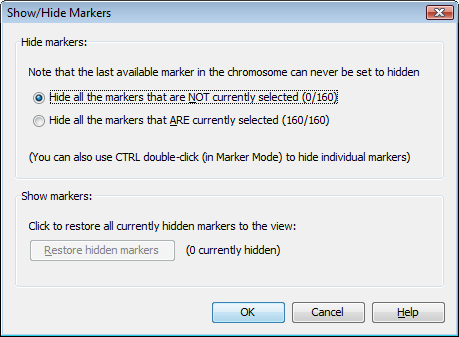
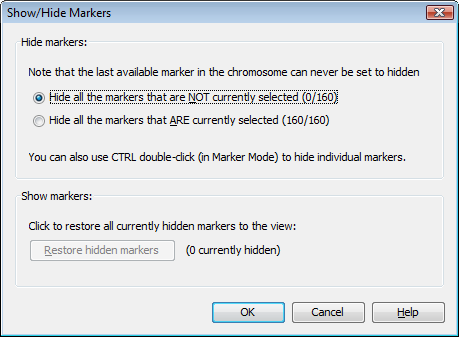
- CHG: Modified the text (and images) for dialogs that use sentences. - NEW: Added a right-click menu option to the navigation panel for deleting bookmarks. - NEW: Added help text on deleting bookmarks.

Changed region(s): [[0.061, 0.4451, 0.915, 0.5045], [0.4575, 0.8902, 0.6405, 0.9792]]

diff --git a/trunk/src/flapjack/gui/Actions.java b/trunk/src/flapjack/gui/Actions.java
@@ -51,6 +51,7 @@ public class Actions
 	public static AbstractAction vizToggleCanvas;
 	public static AbstractAction vizOverview;
 	public static AbstractAction vizBookmark;
+	public static AbstractAction vizDeleteBookmark;
 
 	public static AbstractAction dataSortLinesBySimilarity;
 	public static AbstractAction dataSortLinesByTrait;
@@ -328,6 +329,12 @@ public class Actions
 			}
 		};
 
+		vizDeleteBookmark = new AbstractAction(RB.getString("gui.Actions.vizDeleteBookmark"), getIcon(Icons.DELETE)) {
+			public void actionPerformed(ActionEvent e) {
+				winMain.mViz.vizDeleteBookmark();
+			}
+		};
+
 		vizOverview = new AbstractAction(RB.getString("gui.Actions.vizOverview")) {
 			public void actionPerformed(ActionEvent e) {
 				winMain.mViz.vizOverview();
@@ -476,6 +483,7 @@ public class Actions
 		vizToggleCanvas.setEnabled(false);
 		vizOverview.setEnabled(false);
 		vizBookmark.setEnabled(false);
+		vizDeleteBookmark.setEnabled(false);
 
 		dataSortLinesBySimilarity.setEnabled(false);
 		dataSortLinesByTrait.setEnabled(false);

diff --git a/trunk/src/flapjack/gui/navpanel/NavPanelMenu.java b/trunk/src/flapjack/gui/navpanel/NavPanelMenu.java
@@ -20,6 +20,7 @@ public class NavPanelMenu extends MouseInputAdapter
 	private JMenuItem vizNewView;
 	private JMenuItem vizRenameView;
 	private JMenuItem vizDeleteView;
+	private JMenuItem vizDeleteBookmark;
 
 	public NavPanelMenu(JTree tree)
 	{
@@ -38,6 +39,7 @@ public class NavPanelMenu extends MouseInputAdapter
 		vizNewView = WinMainMenuBar.getItem(Actions.vizNewView, "gui.Actions.vizNewView", 0, 0);
 		vizRenameView = WinMainMenuBar.getItem(Actions.vizRenameView, "gui.Actions.vizRenameView", 0, 0);
 		vizDeleteView = WinMainMenuBar.getItem(Actions.vizDeleteView, "gui.Actions.vizDeleteView", 0, 0);
+		vizDeleteBookmark = WinMainMenuBar.getItem(Actions.vizDeleteBookmark, "gui.Actions.vizDeleteBookmark", 0, 0);
 	}
 
 	void handlePopup(MouseEvent e)
@@ -66,6 +68,11 @@ public class NavPanelMenu extends MouseInputAdapter
 			menu.add(vizNewView);
 			menu.add(vizRenameView);
 			menu.add(vizDeleteView);
+		}
+
+		else if (node instanceof BookmarkNode)
+		{
+			menu.add(vizDeleteBookmark);
 		}
 
 		else

diff --git a/trunk/src/flapjack/gui/NavPanel.java b/trunk/src/flapjack/gui/NavPanel.java
@@ -255,6 +255,18 @@ class NavPanel extends JPanel
 		treeModel.removeNodeFromParent(node);
 	}
 
+	Bookmark removeSelectedBookmarkNode()
+	{
+		BookmarkNode node = (BookmarkNode) tree.getLastSelectedPathComponent();
+		BaseNode baseNode = (BaseNode) node.getParent();
+
+		treeModel.removeNodeFromParent(node);
+		tree.setSelectionPath(new TreePath(baseNode.getPath()));
+		tree.scrollPathToVisible(new TreePath(baseNode.getPath()));
+
+		return node.getBookmark();
+	}
+
 	TraitsPanel getTraitsPanel(DataSet dataSet)
 	{
 		DataSetNode dataSetNode = findDataSetNode(dataSet);

diff --git a/trunk/src/flapjack/gui/MenuVisualization.java b/trunk/src/flapjack/gui/MenuVisualization.java
@@ -180,5 +180,19 @@ public class MenuVisualization
 
 		view.getViewSet().getBookmarks().add(bookmark);
 		navPanel.addedNewBookmarkNode(view.getViewSet(), bookmark);
+
+		Actions.projectModified();
+	}
+
+	void vizDeleteBookmark()
+	{
+		GTViewSet viewSet = gPanel.getViewSet();
+
+		// Remove the bookmark from the navigation panel
+		Bookmark bookmark = navPanel.removeSelectedBookmarkNode();
+		// And then remove it from the project
+		viewSet.getBookmarks().remove(bookmark);
+
+		Actions.projectModified();
 	}
 }

diff --git a/trunk/src/flapjack/gui/navpanel/BookmarkNode.java b/trunk/src/flapjack/gui/navpanel/BookmarkNode.java
@@ -31,6 +31,9 @@ public class BookmarkNode extends BaseNode
 			+ " / " + bookmark.getMarker().getName();
 	}
 
+	public Bookmark getBookmark()
+		{ return bookmark; }
+
 	public GTViewSet getViewSet()
 		{ return parent.getViewSet(); }
 
@@ -46,6 +49,7 @@ public class BookmarkNode extends BaseNode
 
 		Actions.vizRenameView.setEnabled(false);
 		Actions.vizDeleteView.setEnabled(false);
+		Actions.vizDeleteBookmark.setEnabled(true);
 	}
 
 	public JPanel getPanel()
